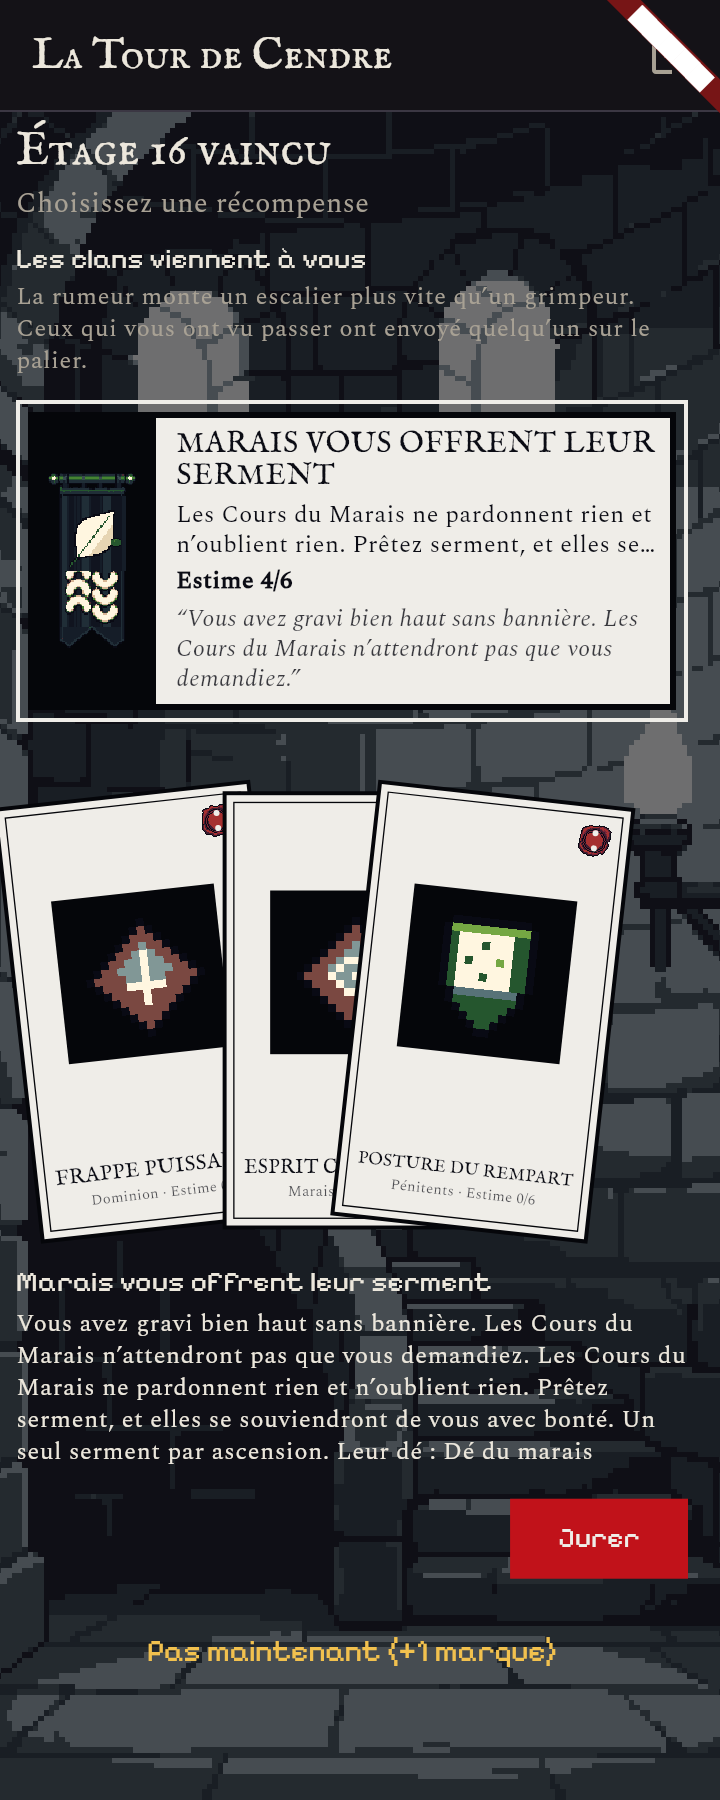
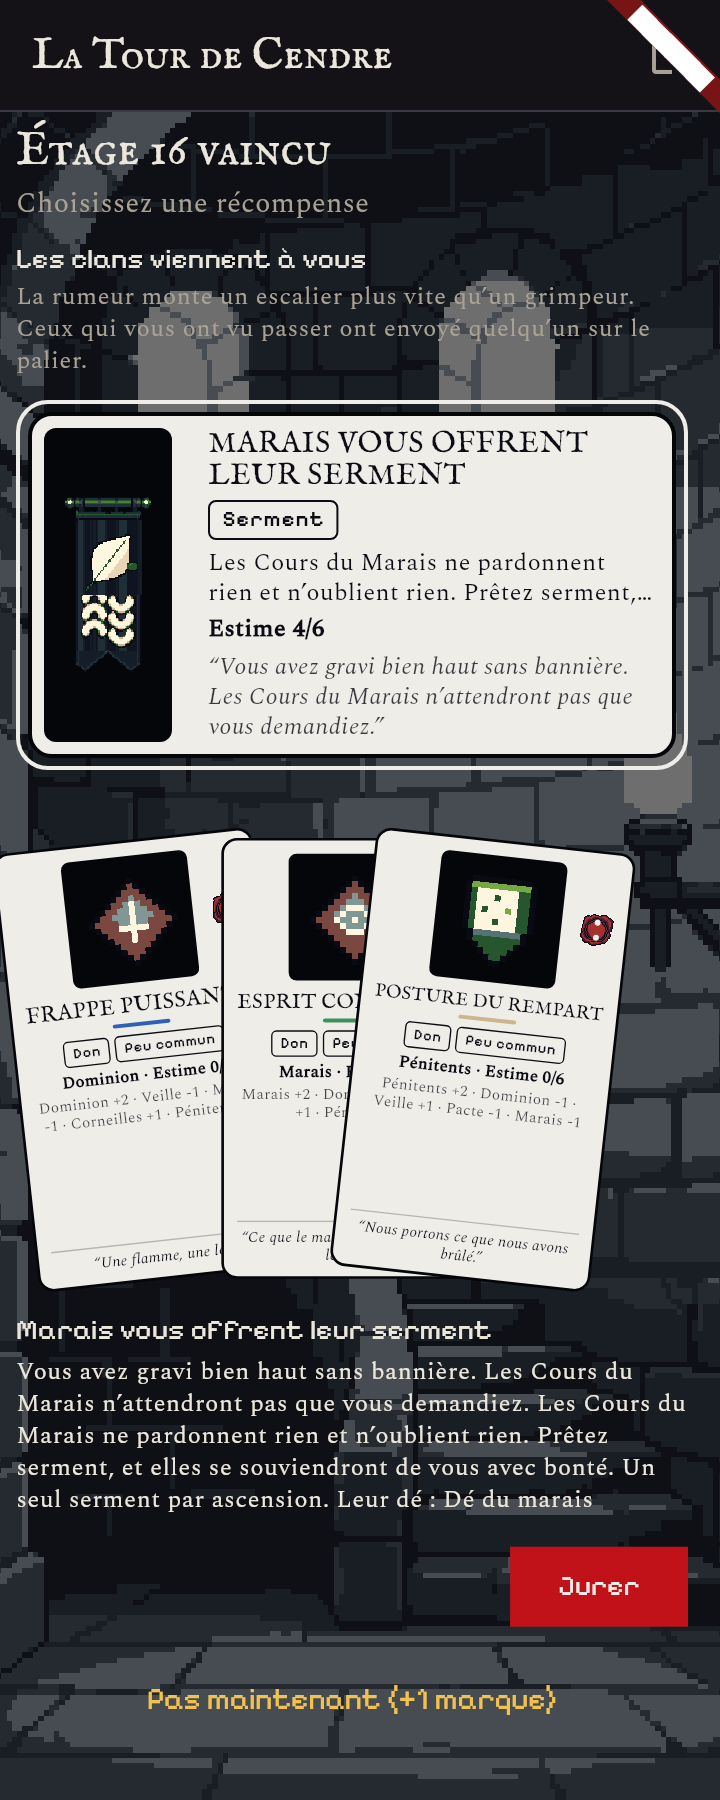
Tower clan cards: rounder (radius 12), all the information on the card (picture for approval)
Claude-Session: https://claude.ai/code/session_019ETFw2Y7wpHSXWG5mmACty

Changed region(s): [[0.0, 0.2178, 0.9778, 0.9644]]

diff --git a/lib/screens/tower/tower_clan_cards.dart b/lib/screens/tower/tower_clan_cards.dart
@@ -11,7 +11,6 @@
 import 'package:flutter/material.dart';
 
 import '../../theme/stitched_ink.dart';
-import 'ink/ink_kit.dart';
 import 'ink/ink_palette.dart';
 import 'tower_tarot_card.dart' show TowerSeal;
 
@@ -22,7 +21,35 @@ const double towerClanCardHeight = 346;
 Color towerOnBand(Color colour) =>
     colour.computeLuminance() > 0.3 ? inkOnPaper : inkPaper;
 
-/// One gift of a clan, as a card (fanned by `ClanHandFan`).
+/// The Ashen Ink card corner (docs: radius-card 12) and its plate (6).
+const double towerCardRadius = 12;
+const double towerPlateRadius = 6;
+
+/// A tag on paper: ink words in a one-pixel ink line (the dark chip's twin).
+class _PaperTag extends StatelessWidget {
+  const _PaperTag(this.text);
+
+  final String text;
+
+  @override
+  Widget build(BuildContext context) => Container(
+        padding: const EdgeInsets.symmetric(horizontal: 6, vertical: 1),
+        decoration: BoxDecoration(
+            border: Border.all(color: inkOnPaper, width: 1),
+            borderRadius: BorderRadius.circular(4)),
+        child: Text(text,
+            maxLines: 1,
+            style: Theme.of(context)
+                .textTheme
+                .labelSmall
+                ?.copyWith(color: inkOnPaper, fontWeight: FontWeight.w700)),
+      );
+}
+
+/// One gift of a clan, as a card (fanned by `ClanHandFan`). Design A, rounder
+/// (the user, 25 Nov): paper, the gift on a black plate, the name in small
+/// caps, the clan's hue once (a short line under the name), the wax seal, and
+/// all the information on the card: tags, standing, what it moves, the quote.
 class TowerClanCard extends StatelessWidget {
   const TowerClanCard({
     super.key,
@@ -33,6 +60,7 @@ class TowerClanCard extends StatelessWidget {
     required this.tags,
     required this.greeting,
     required this.clanName,
+    this.ripple = '',
     this.backdropId,
     this.standing,
     this.rarity,
@@ -46,6 +74,9 @@ class TowerClanCard extends StatelessWidget {
   final List<Widget> tags;
   final String greeting;
   final String clanName;
+
+  /// What the gift moves, clan by clan ("Mire +2 · Dominion -1").
+  final String ripple;
   final String? backdropId;
   final String? standing;
 
@@ -55,68 +86,97 @@ class TowerClanCard extends StatelessWidget {
 
   @override
   Widget build(BuildContext context) {
-    // Design A (the user's pick): a paper card, the gift's picture on a black
-    // plate, the name in small caps, the wax seal the only colour.
+    const prose = TextStyle(
+        fontFamily: InkFonts.prose,
+        fontSize: 11.5,
+        height: 1.2,
+        color: inkOnPaper);
     return Container(
       width: towerClanCardWidth,
       height: towerClanCardHeight,
-      padding: const EdgeInsets.all(5),
+      padding: const EdgeInsets.all(4),
       decoration: BoxDecoration(
+          borderRadius: BorderRadius.circular(towerCardRadius + 4),
           border: Border.all(
               color: lit ? inkPaper : const Color(0x00000000), width: 2)),
       child: DecoratedBox(
         decoration: BoxDecoration(
-            color: inkPaper, border: Border.all(color: inkBlack, width: 3)),
+            color: inkPaper,
+            borderRadius: BorderRadius.circular(towerCardRadius),
+            border: Border.all(color: inkBlack, width: 2)),
         child: Padding(
-          padding: const EdgeInsets.all(8),
-          child: DecoratedBox(
-            decoration:
-                BoxDecoration(border: Border.all(color: inkBlack, width: 1)),
-            child: Stack(children: [
-              Align(
-                alignment: const Alignment(0, -0.3),
-                child: Container(
-                  width: 124,
-                  height: 124,
-                  color: inkBlack,
-                  alignment: Alignment.center,
-                  child: SizedBox(
-                      width: 96,
-                      height: 96,
-                      child: FittedBox(fit: BoxFit.contain, child: icon)),
-                ),
+          padding: const EdgeInsets.fromLTRB(12, 12, 12, 10),
+          child: Column(children: [
+            Stack(alignment: Alignment.center, children: [
+              Container(
+                width: 96,
+                height: 96,
+                decoration: BoxDecoration(
+                    color: inkBlack,
+                    borderRadius: BorderRadius.circular(towerPlateRadius)),
+                alignment: Alignment.center,
+                child: SizedBox(
+                    width: 72,
+                    height: 72,
+                    child: FittedBox(fit: BoxFit.contain, child: icon)),
               ),
               if (rarity != null)
-                Positioned(right: 8, top: 8, child: TowerSeal(rarity: rarity)),
-              Positioned(
-                left: 8,
-                right: 8,
-                bottom: 14,
-                child: Column(mainAxisSize: MainAxisSize.min, children: [
-                  FittedBox(
-                    fit: BoxFit.scaleDown,
-                    child: Text(name.toUpperCase(),
-                        maxLines: 1,
-                        textAlign: TextAlign.center,
-                        style: const TextStyle(
-                            fontFamily: InkFonts.display,
-                            fontSize: 17,
-                            height: 1.05,
-                            color: inkOnPaper)),
-                  ),
-                  const SizedBox(height: 4),
-                  Text([clanName, if (standing != null) standing!].join(' · '),
-                      maxLines: 1,
-                      overflow: TextOverflow.ellipsis,
-                      style: TextStyle(
-                          fontFamily: InkFonts.prose,
-                          fontSize: 11,
-                          height: 1.2,
-                          color: inkOnPaper.withValues(alpha: 0.7))),
-                ]),
-              ),
+                Align(
+                    alignment: Alignment.topRight,
+                    child: TowerSeal(rarity: rarity, size: 24)),
             ]),
-          ),
+            const SizedBox(height: 8),
+            FittedBox(
+              fit: BoxFit.scaleDown,
+              child: Text(name.toUpperCase(),
+                  maxLines: 1,
+                  style: const TextStyle(
+                      fontFamily: InkFonts.display,
+                      fontSize: 17,
+                      height: 1.05,
+                      color: inkOnPaper)),
+            ),
+            const SizedBox(height: 4),
+            // The clan's hue, once.
+            Container(
+                width: 44,
+                height: 3,
+                decoration: BoxDecoration(
+                    color: color, borderRadius: BorderRadius.circular(2))),
+            const SizedBox(height: 6),
+            FittedBox(
+              fit: BoxFit.scaleDown,
+              child: Row(mainAxisSize: MainAxisSize.min, children: [
+                for (var i = 0; i < tags.length; i++) ...[
+                  if (i > 0) const SizedBox(width: 4),
+                  tags[i],
+                ],
+              ]),
+            ),
+            const SizedBox(height: 4),
+            Text([clanName, if (standing != null) standing!].join(' · '),
+                maxLines: 1,
+                overflow: TextOverflow.ellipsis,
+                style: prose.copyWith(
+                    fontSize: 12.5, fontWeight: FontWeight.w700)),
+            if (ripple.isNotEmpty) ...[
+              const SizedBox(height: 3),
+              Text(ripple,
+                  textAlign: TextAlign.center,
+                  maxLines: 2,
+                  overflow: TextOverflow.ellipsis,
+                  style: prose.copyWith(
+                      color: inkOnPaper.withValues(alpha: 0.75))),
+            ],
+            const Spacer(),
+            Container(height: 1, color: inkOnPaper.withValues(alpha: 0.25)),
+            const SizedBox(height: 5),
+            Text(greeting.isEmpty ? '' : '“$greeting”',
+                textAlign: TextAlign.center,
+                maxLines: 3,
+                overflow: TextOverflow.ellipsis,
+                style: prose.copyWith(fontStyle: FontStyle.italic)),
+          ]),
         ),
       ),
     );
@@ -167,18 +227,24 @@ class TowerClanOathRow extends StatelessWidget {
       child: Container(
         padding: const EdgeInsets.all(4),
         decoration: BoxDecoration(
+            borderRadius: BorderRadius.circular(towerCardRadius + 4),
             border: Border.all(
                 color: selected ? inkPaper : const Color(0x00000000),
                 width: 2)),
         child: DecoratedBox(
           decoration: BoxDecoration(
-              color: inkPaper, border: Border.all(color: inkBlack, width: 3)),
+              color: inkPaper,
+              borderRadius: BorderRadius.circular(towerCardRadius),
+              border: Border.all(color: inkBlack, width: 2)),
           child: IntrinsicHeight(
             child:
                 Row(crossAxisAlignment: CrossAxisAlignment.stretch, children: [
               Container(
                 width: 64,
-                color: inkBlack,
+                margin: const EdgeInsets.all(8),
+                decoration: BoxDecoration(
+                    color: inkBlack,
+                    borderRadius: BorderRadius.circular(towerPlateRadius)),
                 padding: const EdgeInsets.symmetric(vertical: 6),
                 alignment: Alignment.center,
                 child: SizedBox(
@@ -199,6 +265,8 @@ class TowerClanOathRow extends StatelessWidget {
                                 fontSize: 15,
                                 height: 1.05,
                                 color: inkOnPaper)),
+                        const SizedBox(height: 4),
+                        Wrap(spacing: 4, runSpacing: 2, children: tags),
                         const SizedBox(height: 4),
                         Text(text,
                             maxLines: 2,
@@ -233,4 +301,4 @@ class TowerClanOathRow extends StatelessWidget {
 }
 
 /// A gift's or an oath's small tag: paper text in a paper line (the ink look).
-Widget towerClanTag(String text) => InkTag(text);
+Widget towerClanTag(String text) => _PaperTag(text);

diff --git a/test/ux_tower_lone_card_test.dart b/test/ux_tower_lone_card_test.dart
@@ -16,6 +16,7 @@ import 'package:narrative_data_app/data/tower/tower_tables.dart';
 import 'package:narrative_data_app/data/tower/tower_save.dart';
 import 'package:narrative_data_app/main.dart';
 import 'package:narrative_data_app/screens/tower/ink/ink_sprites.dart';
+import 'package:narrative_data_app/screens/tower/tower_clan_cards.dart';
 import 'package:narrative_data_app/screens/tower/tower_tarot_card.dart';
 
 import 'support/fonts.dart';
@@ -75,13 +76,14 @@ void main() {
       await settle(10);
     }
     await settle(18);
-    final card = find.byType(TowerTarotCard);
+    // The clan oath alone is the oath row of the clans' table (a wide, short
+    // paper row), never a screen-high black tarot (#1145).
+    final card = find.byType(TowerClanOathRow);
     expect(card, findsOneWidget);
+    expect(find.byType(TowerTarotCard), findsNothing);
     final size = tester.getSize(card);
-    expect(size.width, lessThan(130), reason: 'a third of 360, not all of it');
-    expect(size.height, lessThan(260));
-    final centre = tester.getCenter(card).dx;
-    expect(centre, closeTo(180, 6), reason: 'centred');
+    expect(size.height, lessThan(220), reason: 'short, not screen-high');
+    expect(size.width, lessThan(360));
     expect(tester.takeException(), isNull);
   });
 }

diff --git a/lib/screens/tower/tower_offer_view.dart b/lib/screens/tower/tower_offer_view.dart
@@ -365,6 +365,7 @@ class _TowerOfferViewState extends ConsumerState<TowerOfferView> {
                   ],
                   greeting: faction?.mottoFor(lang) ?? '',
                   clanName: faction?.shortFor(lang) ?? reward.clan,
+                  ripple: towerRippleLine(ref, reward.clan, widget.data),
                   standing:
                       towerStandingLabel(ref, _standing[reward.clan] ?? 0),
                   backdropId: reward.clan,

diff --git a/docs/ux-shots/clan-offer-cards/README.md b/docs/ux-shots/clan-offer-cards/README.md
@@ -1,6 +1,6 @@
 # Tower clan offers in the story's banner-and-card look (picture first, no PR)
 
-Design A (the user's pick): paper card, the gift's picture on a black plate, name in small caps, the wax seal the only colour; the oath row in the same spirit (banner on a black plate, paper body, late-oath line kept). Sheet: `ink-cards.png` (EN 412, FR 360, a gift in hand).
+Design A, rounder (radius 12) with all the information on the card (the user, 25 Nov): paper, the gift on a black plate, name in small caps, the clan hue once (a short line), the wax seal, tags, standing, what it moves, the quote; the oath row in the same spirit. Sheet: `ink-cards.png` (EN 412, FR 360, a gift in hand).
 
 
 The user's call: "for the propositions from clan keep the banner card style choice from story". Built on a branch (`claude/ux-2-clan-offer-cards`, from main v2.8.1) so the pictures are the real screen; no version, no PR until the user approves (the build would be v2.8.2+1071).
